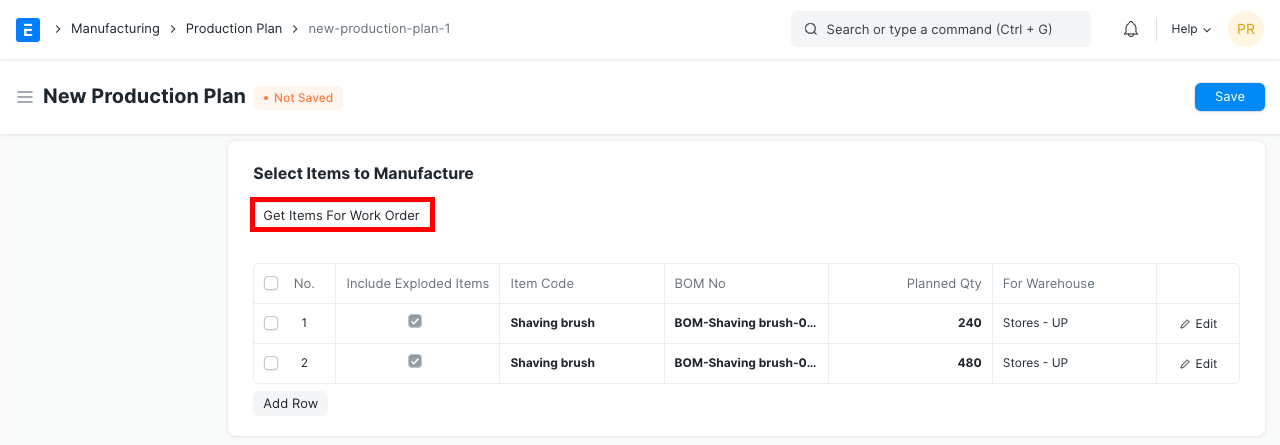
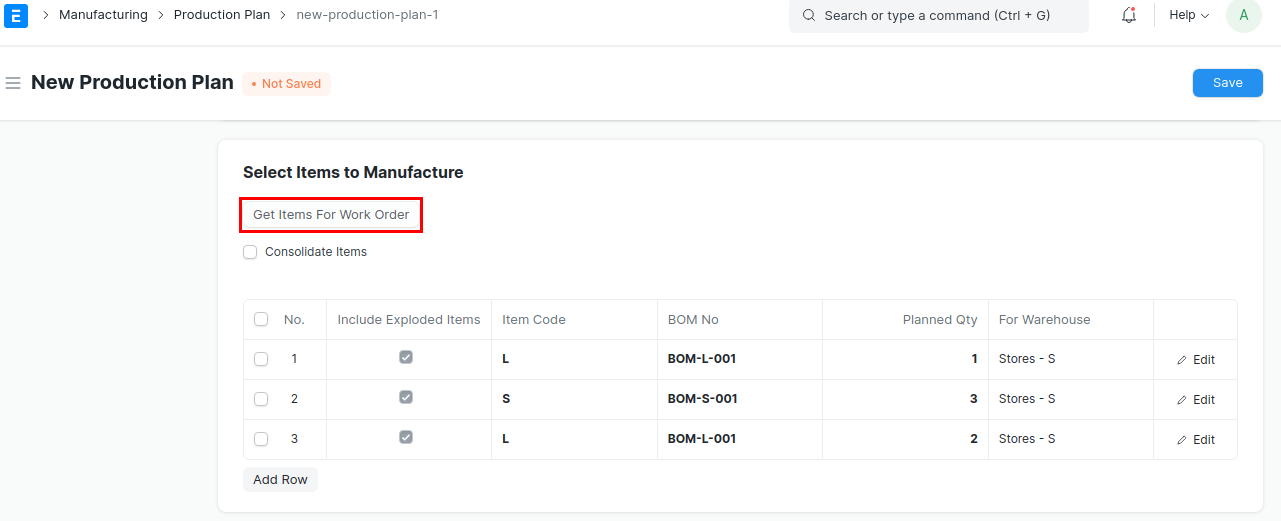
docs: updated production against sales orders in production plan

diff --git a/erpnext_documentation/www/docs/v13/user/manual/en/manufacturing/production-plan.md b/erpnext_documentation/www/docs/v13/user/manual/en/manufacturing/production-plan.md
@@ -43,6 +43,9 @@ A Production Plan can also be created manually where you can select the Items to
 
 1. On expanding a row in the Items to Manufacture table, you'll see an option to 'Include Exploded Items'. Ticking this includes raw materials of the sub-assembly items in the production process.
 
+1. If "Consolidate Items" is ticked and saved, items with the same BOM are combined into a single item with the combined total planned quantity.
+![Get items Combined for Production Plan](/docs/v13/assets/img/manufacturing/get_items_combined_wo.png)
+
 ### 2.2 Production Against Material Requests
 
 1. Select option as Material Request from the Get Items From drop-down list. The system will show the filters, using that we can pull the Material Requests for the production.
